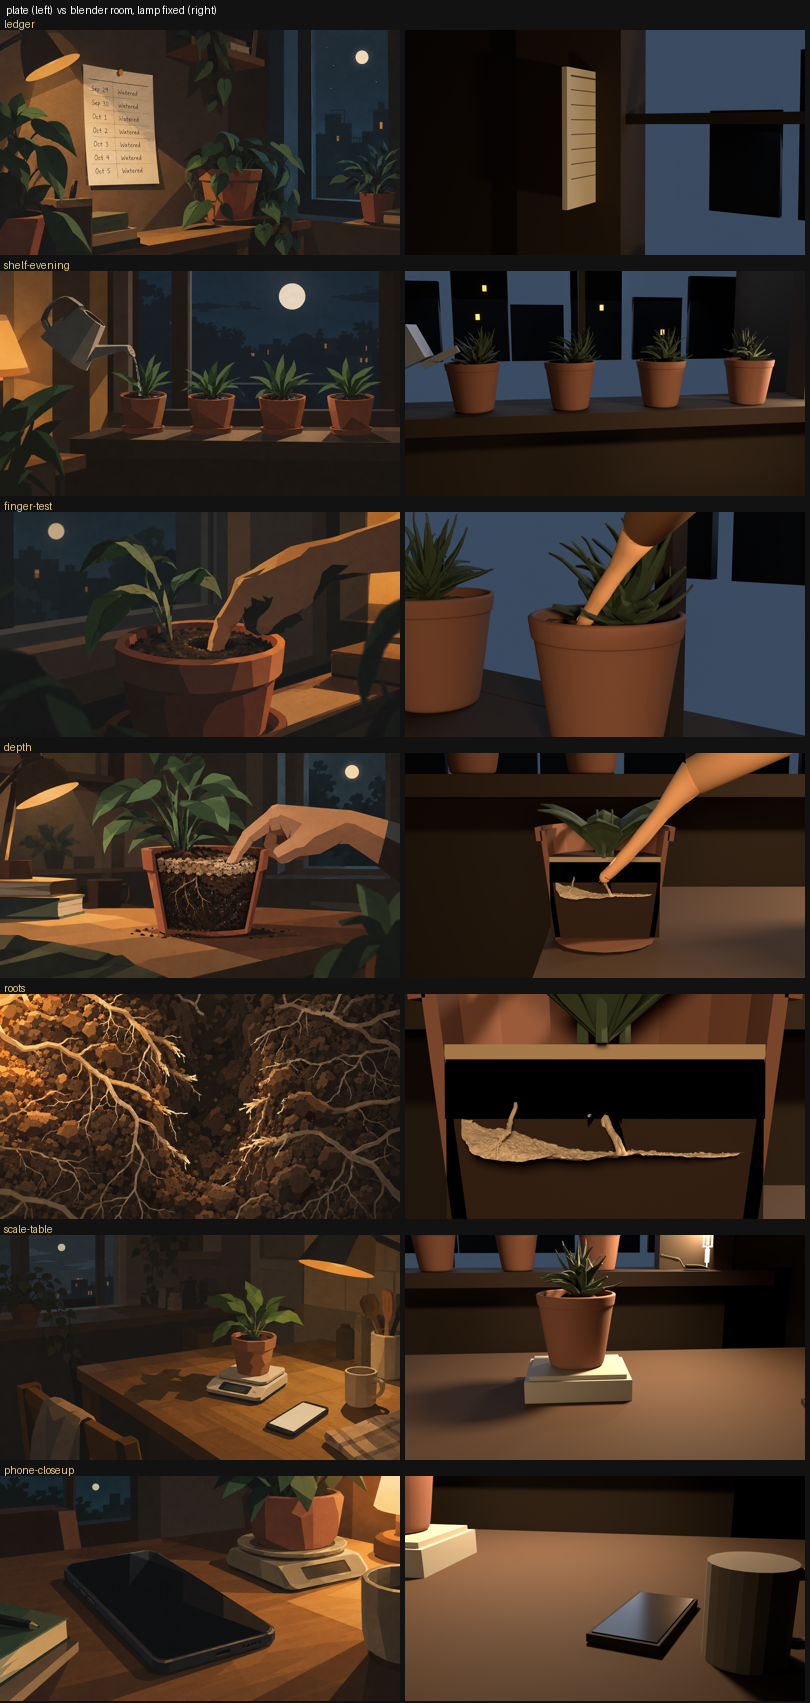
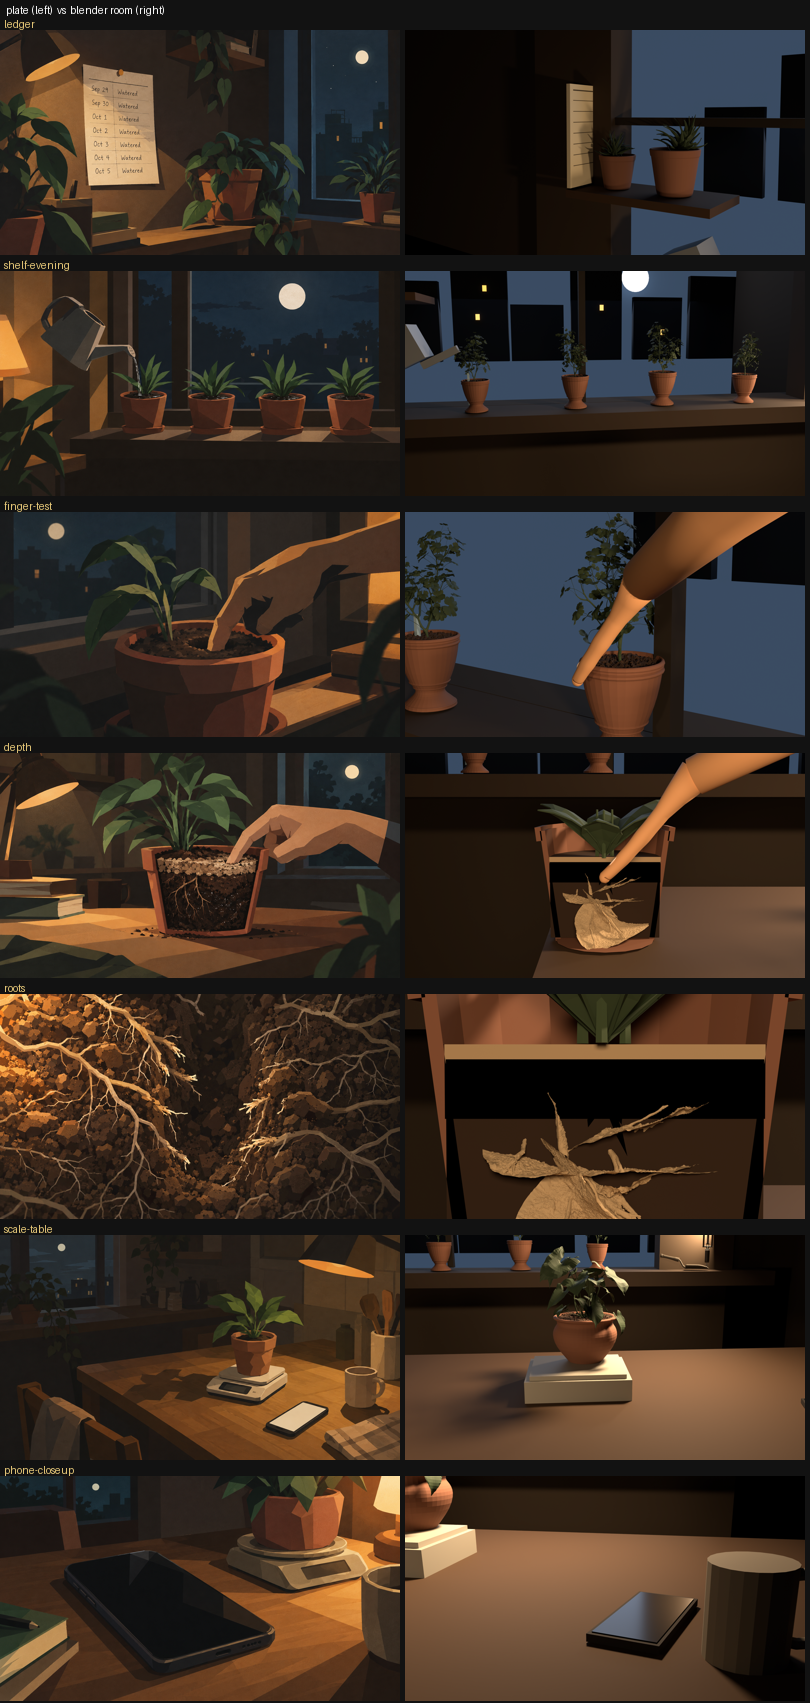
Dress the room: CC0 props, broad-leaf plants, a root mass
Four fixes on the Blender room, each driven by a defect rather than a guess.

The lamp rendered as a solid white blob. Every part of it carries both
desk_lamp_arm_01 and desk_lamp_arm_01_light, and the matcher tested a joined
haystack, so the whole fixture got the emissive shade material. It matches the
object name first now and falls back to material names only after. Same shape of
bug as the pots coming out green.

roots was one gnarled root; it is five linked duplicates now, linked because the
asset is 225k faces and appending it five times would load five copies.

The moon finally lands inside the window opening, and the ledger shot has a
shelf with two plants instead of a bare wall.

The plants are broad-leaf rather than spiky. That needed look.leaf_mat: those
assets build each leaf as an alpha card, so replacing their material wholesale
turns every leaf into a solid rectangle, and this keeps the one texture that is
geometry in disguise.

That swap then broke the hand, instructively. soil_top() looked for objects
named _dirt and potted_plant_01 names its soil _pebbles, so it found nothing,
fell back to table height, and the hand dropped below the sill and out of frame.

diff --git a/tools/blender/world.py b/tools/blender/world.py
@@ -187,13 +187,24 @@ def append(name, loc, scale=1.0, rot_z=0.0, mats=None, default=None, drop=('_gro
         # and the order matters: "potted_plant_04_pot" contains both "pot" and
         # "plant", so the specific hint has to be tested first. Hence a list
         # rather than a dict.
-        hay = o.name.lower() + ' ' + ' '.join(
-            (m.name.lower() if m else '') for m in o.data.materials)
+        # Match the OBJECT name first and only fall back to material names.
+        # Every part of the lamp carries both 'desk_lamp_arm_01' and
+        # 'desk_lamp_arm_01_light', so testing a joined haystack gave the whole
+        # fixture the emissive shade material and it rendered as a solid white
+        # blob. Same shape of bug as the pots: the hint matched more than meant.
+        oname = o.name.lower()
+        slots = [(m.name.lower() if m else '') for m in o.data.materials]
         o.data.materials.clear()
-        pick = default
+        pick = None
         for hint, m in (mats or []):
-            if hint in hay:
+            if hint in oname:
                 pick = m; break
+        if pick is None:
+            for hint, m in (mats or []):
+                if any(hint in s for s in slots):
+                    pick = m; break
+        if pick is None:
+            pick = default
         if pick:
             o.data.materials.append(pick)
         for poly in o.data.polygons:
@@ -224,7 +235,12 @@ def soil_top(x, y, r=0.12):
     import mathutils
     best = None
     for o in bpy.data.objects:
-        if o.type != 'MESH' or '_dirt' not in o.name.lower():
+        # Each plant asset names its soil differently: potted_plant_04 says
+        # _dirt, potted_plant_01 says _pebbles. Matching only one of them meant
+        # swapping the plant silently dropped the hand to table height, below
+        # the sill and out of frame.
+        if o.type != 'MESH' or not any(
+                k in o.name.lower() for k in ('_dirt', '_pebbles', '_soil', '_ground')):
             continue
         pts = [o.matrix_world @ mathutils.Vector(c) for c in o.bound_box]
         cx = sum(p.x for p in pts) / 8; cy = sum(p.y for p in pts) / 8
@@ -270,6 +286,31 @@ def place_hand(at, yaw=0.0, pitch=-0.62, into=0.012):
     return f
 
 
+def scatter(root, placements):
+    """Linked duplicates of an appended asset.
+
+    root_cluster_01 is 225k faces. Appending it five times to make a root mass
+    would load five copies of that; linked duplicates share the mesh data, so
+    the cost is five object headers and the renderer instances the rest.
+    """
+    src = [o for o in root.children_recursive if o.type == 'MESH']
+    made = []
+    for loc, scale, rot in placements:
+        holder = bpy.data.objects.new(root.name + '_dup', None)
+        bpy.context.collection.objects.link(holder)
+        holder.location, holder.scale = loc, (scale, scale, scale)
+        holder.rotation_euler = rot
+        for o in src:
+            c = o.copy()                      # object copy, mesh data shared
+            bpy.context.collection.objects.link(c)
+            c.parent = holder
+            c.matrix_parent_inverse = o.matrix_parent_inverse.copy()
+            c.matrix_basis = o.matrix_basis.copy()
+        made.append(holder)
+    bpy.context.view_layer.update()
+    return made
+
+
 def build(res=(1672, 941), samples=96):
     sc = look.reset(res=res, samples=samples)
     M = dict(
@@ -311,18 +352,26 @@ def build(res=(1672, 941), samples=96):
     for x, z in ((-0.80, 1.30), (-0.74, 1.52), (0.18, 1.38), (0.70, 1.18)):
         _box((x, WIN_Y + 1.86, z), (0.030, 0.01, 0.045),
              look.mat('litwin', (1, 1, 1, 1), 1.0, emit=look.srgb('#C98A3A'), strength=3.0))
-    bpy.ops.mesh.primitive_circle_add(vertices=28, radius=0.115, fill_type='NGON',
-                                      location=(0.30, WIN_Y + 2.45, 1.66))
+    bpy.ops.mesh.primitive_circle_add(vertices=28, radius=0.135, fill_type='NGON',
+                                      location=(0.60, WIN_Y + 2.45, 1.70))
     mn = bpy.context.object; mn.rotation_euler = (math.radians(90), 0, 0)
     look.put(mn, look.mat('moon', (1, 1, 1, 1), 1.0, emit=(0.95, 0.96, 1.0, 1), strength=5.0))
 
     # --- the four pots on the sill, and the can pouring into the first
     soil_m = look.mat('potsoil', look.SOIL, 0.96)
+    A = lambda n, f: os.path.join(ASSETS, n, f)
+    # The spiky succulent read as agave against plates full of broad leaves.
+    # These assets build each leaf as an alpha card, so the leaf material has to
+    # keep that one texture or every leaf becomes a solid rectangle.
+    leaf1 = look.leaf_mat('leaf1', look.LEAF, A('potted_plant_01', 'potted_plant_01_leaves_alpha_1k.png'))
+    leaf2 = look.leaf_mat('leaf2', look.LEAF, A('potted_plant_02', 'potted_plant_02_leaves_alpha_1k.png'))
+    P1 = [('_leaves', leaf1), ('_stem', M['stem']), ('_pebbles', soil_m), ('_pot', M['terra'])]
+    P2 = [('_leaves', leaf2), ('_dirt', soil_m), ('_pot', M['terra'])]
     PM = [('_pot', M['terra']), ('_dirt', soil_m), ('_ground', soil_m),
           ('_plant', M['leaf']), ('leaves', M['leaf']), ('leaf', M['leaf'])]
     for i, x in enumerate(POTS_X):
-        append('potted_plant_04', (x, 0.985, SILL_Z), scale=1.0,
-               rot_z=0.7 * i, mats=PM, default=M['terra'])
+        append('potted_plant_01', (x, 0.985, SILL_Z), scale=0.185 + 0.012 * (i % 3),
+               rot_z=1.1 * i, mats=P1, default=M['terra'])
     can = _box((POTS_X[0] - 0.19, 0.95, SILL_Z + 0.20), (0.115, 0.095, 0.105), M['metal'])
     can.rotation_euler = (0, math.radians(-26), 0)
     sp = _box((POTS_X[0] - 0.085, 0.95, SILL_Z + 0.175), (0.115, 0.022, 0.022), M['metal'])
@@ -339,18 +388,24 @@ def build(res=(1672, 941), samples=96):
     _box((0.30, 0.12, TABLE_Z + 0.022), (0.215, 0.185, 0.044), M['plastic'])
     _box((0.30, 0.12, TABLE_Z + 0.048), (0.195, 0.165, 0.010), M['plastic'])
     _box((0.30, 0.035, TABLE_Z + 0.030), (0.072, 0.012, 0.024), M['glassblack'])
-    append('potted_plant_04', (0.30, 0.13, TABLE_Z + 0.053), scale=1.0,
-           rot_z=2.1, mats=PM, default=M['terra'])
+    append('potted_plant_02', (0.30, 0.13, TABLE_Z + 0.053), scale=0.30,
+           rot_z=2.1, mats=P2, default=M['terra'])
     # the cut pot, the depth shot, on the same table
     facet_pot((-0.18, 0.10, TABLE_Z), m=M['terra'], cut=True)
     plant((-0.18, 0.10, TABLE_Z + 0.104), M['leaf'], M['stem'], scale=0.9)
     # the roots beat is a macro into real root geometry rather than my 14 tubes
-    append('root_cluster_01', (-0.18, 0.115, TABLE_Z + 0.055), scale=0.030,
-           rot_z=0.4, default=look.mat('rootm', look.srgb('#B7A184'), 0.86))
+    rootm = look.mat('rootm', look.srgb('#A8906F'), 0.88)
+    rc = append('root_cluster_01', (-0.18, 0.118, TABLE_Z + 0.048), scale=0.026,
+                rot_z=0.4, default=rootm)
+    scatter(rc, [((-0.205, 0.108, TABLE_Z + 0.030), 0.021, (0.5, 0.2, 1.9)),
+                 ((-0.152, 0.122, TABLE_Z + 0.034), 0.019, (-0.4, 0.3, 3.4)),
+                 ((-0.180, 0.100, TABLE_Z + 0.018), 0.024, (0.2, -0.3, 0.8)),
+                 ((-0.196, 0.130, TABLE_Z + 0.062), 0.016, (1.1, 0.1, 5.0)),
+                 ((-0.165, 0.112, TABLE_Z + 0.056), 0.017, (-0.7, 0.4, 2.6))])
     # the lamp the plates actually show, with the key light at its head
     lamp_root = append('desk_lamp_arm_01', (0.90, 0.33, TABLE_Z), scale=0.40, rot_z=-2.3,
-           mats=[('_light', look.mat('shadeglow', (1, 1, 1, 1), 1.0,
-                                     emit=look.LAMP + (1,), strength=2.4))],
+           mats=[('lamp-head', look.mat('shadeglow', (1, 1, 1, 1), 1.0,
+                                       emit=look.LAMP + (1,), strength=2.0))],
            default=look.mat('lampbody', look.srgb('#2A2420'), 0.55))
     append('book_encyclopedia_set_01', (-0.52, -0.14, TABLE_Z), scale=0.075, rot_z=0.5,
            mats=[('_paper', look.mat('pages', look.srgb('#9B8D74'), 0.95))],
@@ -374,6 +429,11 @@ def build(res=(1672, 941), samples=96):
     scr.rotation_euler = (0, 0, math.radians(-14))
 
     # --- the ledger, pinned to the left pier
+    _box((-0.86, 1.00, 1.30), (0.42, 0.20, 0.022), M['wood'])          # shelf by the ledger
+    append('potted_plant_04', (-0.78, 1.00, 1.311), scale=0.78, rot_z=1.3,
+           mats=PM, default=M['terra'])
+    append('potted_plant_04', (-0.96, 0.99, 1.311), scale=0.62, rot_z=-0.6,
+           mats=PM, default=M['terra'])
     led = _box((-1.06, 1.00, 1.46), (0.012, 0.215, 0.285), M['paper'])
     led.rotation_euler = (0, 0, math.radians(4))
     rule = look.mat('rule', look.srgb('#4A4134'), 0.95)
@@ -449,7 +509,7 @@ def build(res=(1672, 941), samples=96):
 
 # (name, camera loc, aim, lens, portrait lens)
 SHOTS = {
- 'ledger':        ((-0.48, 0.16, 1.49), (-1.02, 0.99, 1.45), 42, 34),
+ 'ledger':        ((-0.30, 0.02, 1.52), (-1.00, 0.99, 1.44), 38, 30),
  'shelf-evening': ((-0.30, -0.28, 1.21), (-0.10, 0.98, 1.03), 35, 28),
  'finger-test':   ((0.17, 0.47, 1.20), (-0.21, 0.975, 1.095), 55, 45),
  'depth':         ((-0.18, -0.60, 0.95), (-0.18, 0.10, 0.845), 55, 45),

diff --git a/tools/blender/look.py b/tools/blender/look.py
@@ -133,3 +133,29 @@ def place_at_frame(cam, fx, fy, depth_y):
     w, h, d = frame_at(cam, depth_y)
     centre = cam.location + fwd * d
     return centre + right * ((fx - 0.5) * w) + up * ((0.5 - fy) * h)
+
+
+def leaf_mat(name, base, alpha_png, rough=0.66):
+    """Flat leaf colour that keeps the asset's alpha cutout.
+
+    The broad-leaf assets build each leaf as a card with an alpha map doing the
+    shape. Replacing their material wholesale, which is what every other prop
+    here gets, turns every leaf into a solid rectangle. So this one keeps the
+    one texture that is geometry in disguise and throws away the rest.
+    """
+    import os
+    m = bpy.data.materials.new(name)
+    m.use_nodes = True
+    nt = m.node_tree
+    b = nt.nodes['Principled BSDF']
+    b.inputs['Base Color'].default_value = base
+    b.inputs['Roughness'].default_value = rough
+    b.inputs['Specular IOR Level'].default_value = 0.15
+    if alpha_png and os.path.exists(alpha_png):
+        img = nt.nodes.new('ShaderNodeTexImage')
+        img.image = bpy.data.images.load(alpha_png)
+        img.image.colorspace_settings.name = 'Non-Color'
+        img.interpolation = 'Closest'
+        nt.links.new(img.outputs['Color'], b.inputs['Alpha'])
+        m.blend_method = 'CLIP' if hasattr(m, 'blend_method') else m.blend_method
+    return m
